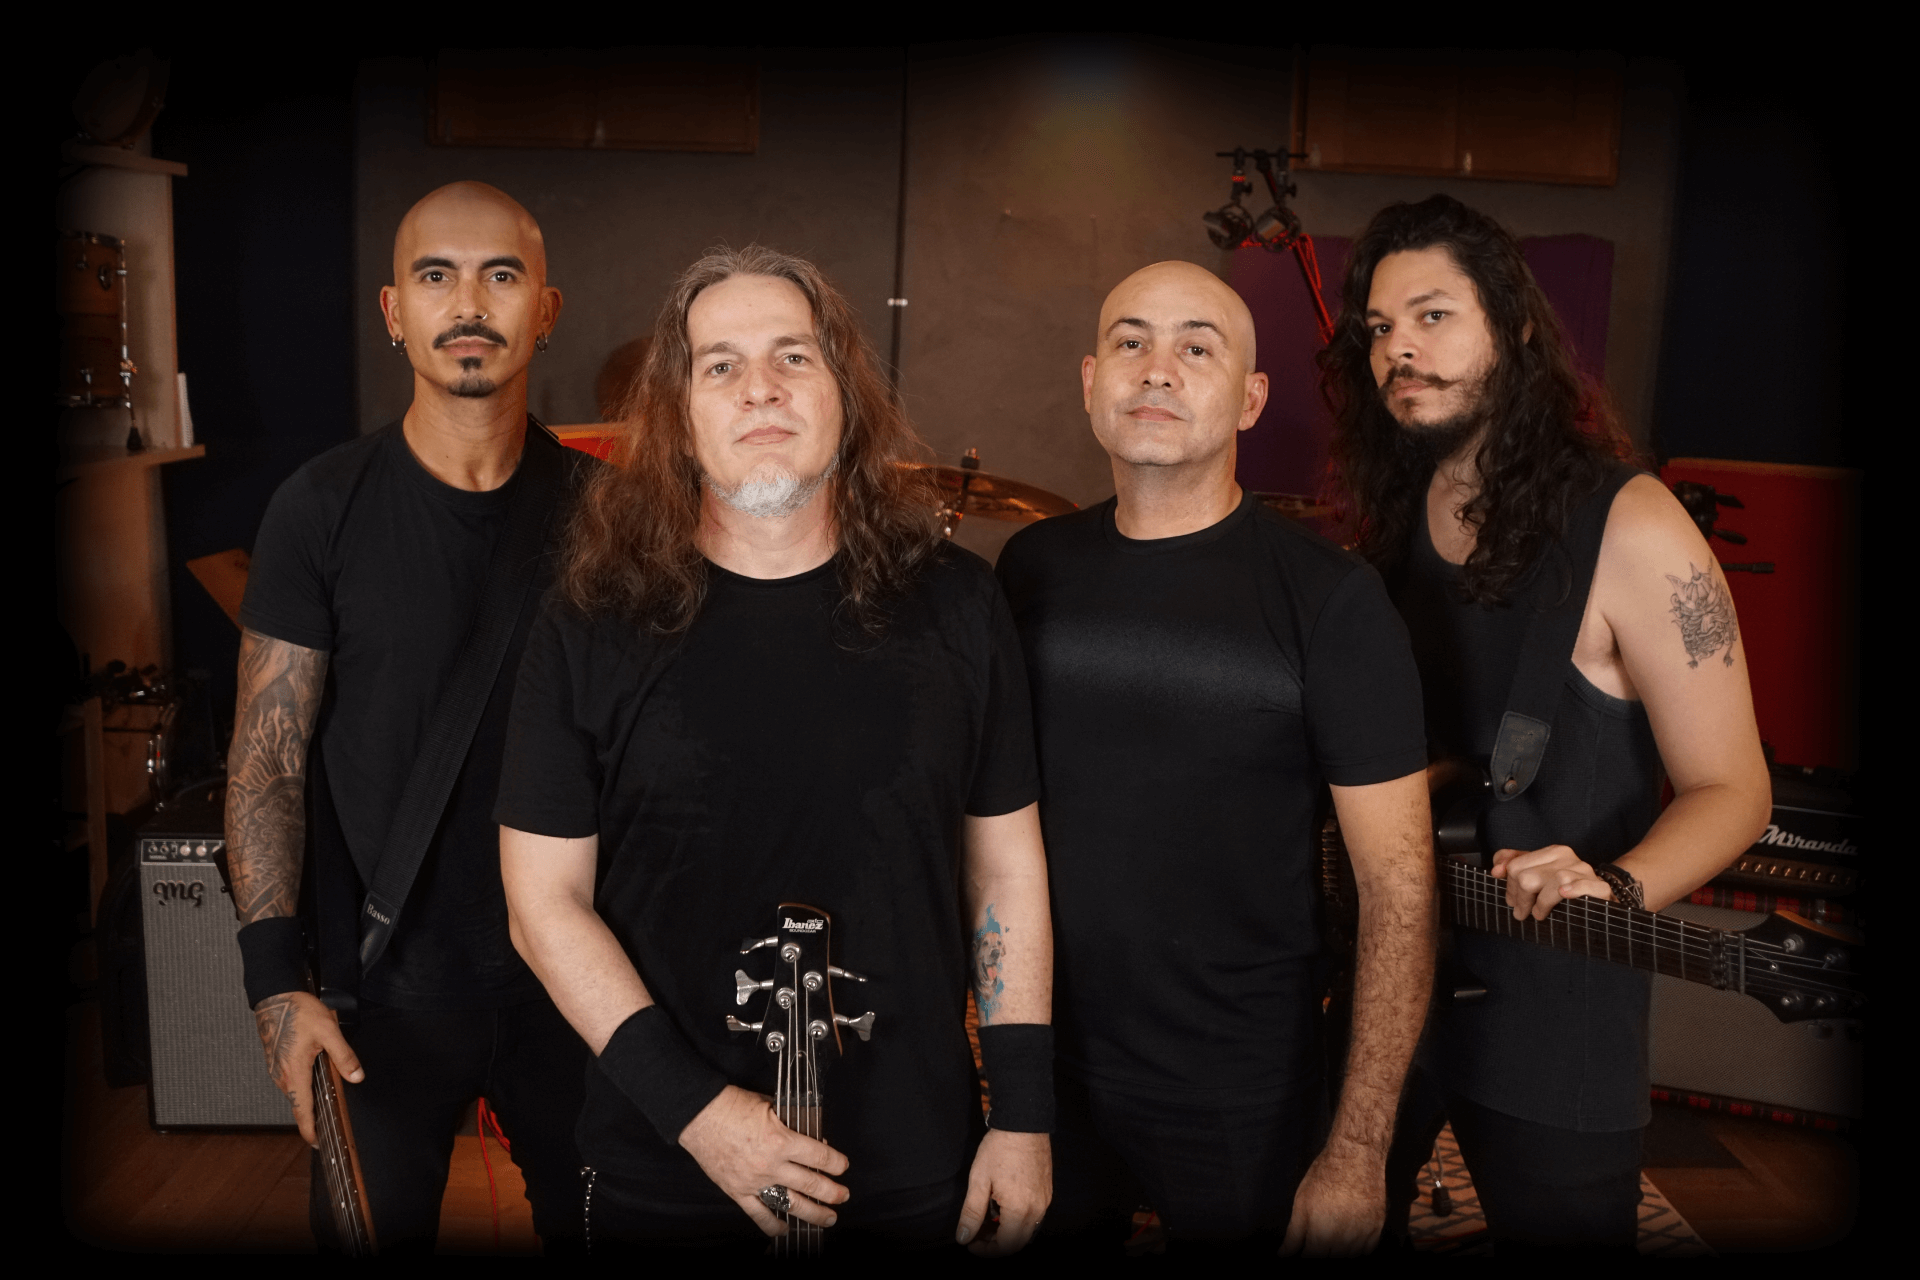
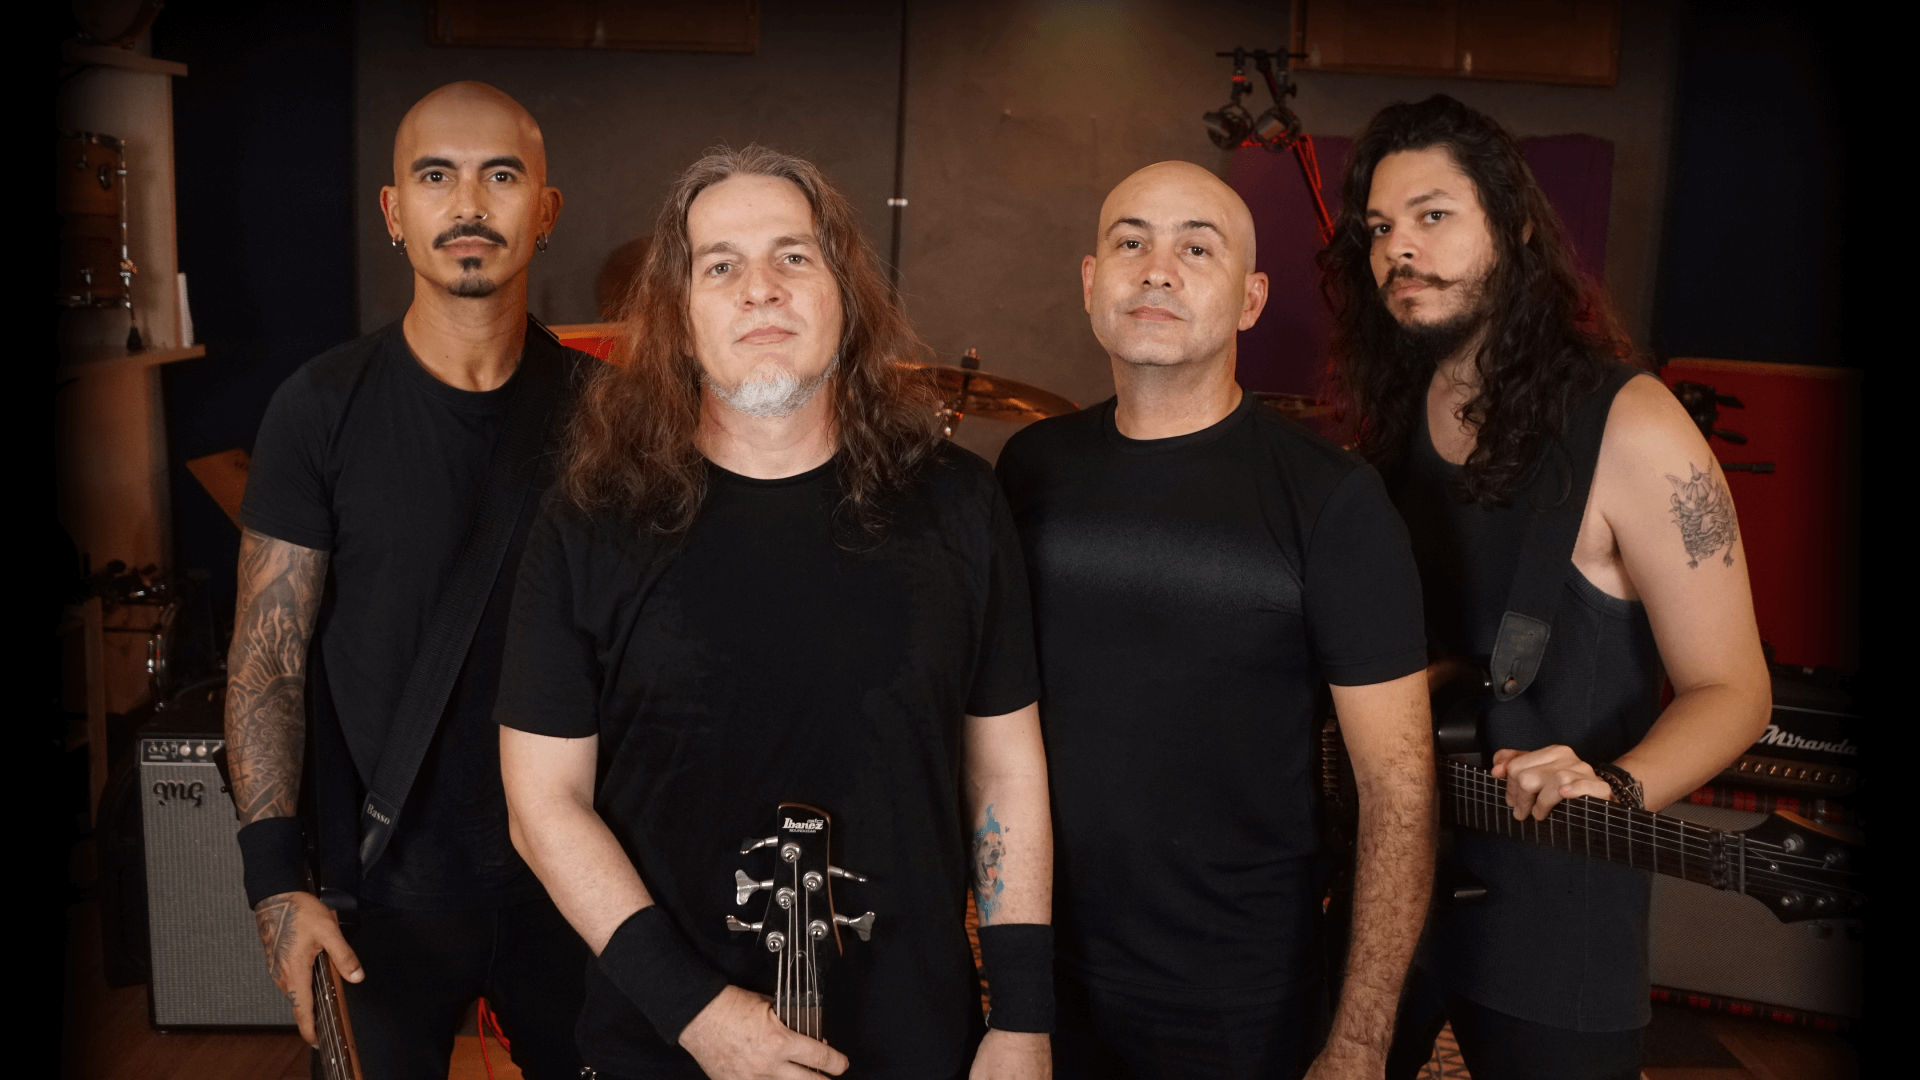
Hero desktop: 16:9 preenche borda sem corte (lg:object-cover + script hero-16x9)
Made-with: Cursor

diff --git a/scripts/hero-16x9.js b/scripts/hero-16x9.js
@@ -1,0 +1,46 @@
+/**
+ * Converte a imagem do hero (public/hero.png) para proporção 16:9 (crop central).
+ * No desktop a imagem preenche toda a borda sem cortes. Uso: node scripts/hero-16x9.js
+ */
+
+const fs = require("fs");
+const path = require("path");
+
+const HERO_PATH = path.join(process.cwd(), "public", "hero.png");
+const TARGET_WIDTH = 1920;
+const TARGET_HEIGHT = 1080; // 16:9
+const QUALITY = 90;
+
+async function convertTo16x9() {
+  let sharp;
+  try {
+    sharp = require("sharp");
+  } catch {
+    console.log("Instalando sharp... Execute: npm install sharp --save-dev");
+    process.exit(1);
+  }
+
+  if (!fs.existsSync(HERO_PATH)) {
+    console.log("Ficheiro public/hero.png não encontrado.");
+    process.exit(1);
+  }
+
+  try {
+    const image = sharp(HERO_PATH);
+    let pipeline = image.resize(TARGET_WIDTH, TARGET_HEIGHT, {
+      fit: "cover",
+      position: "center",
+    });
+    pipeline = pipeline.png();
+    const tempPath = HERO_PATH + ".tmp";
+    await pipeline.toFile(tempPath);
+    fs.renameSync(tempPath, HERO_PATH);
+    const stats = fs.statSync(HERO_PATH);
+    console.log(`Hero convertido para 16:9 (${TARGET_WIDTH}×${TARGET_HEIGHT}, ${(stats.size / 1024).toFixed(1)} KB).`);
+  } catch (err) {
+    console.error("Erro:", err.message);
+    process.exit(1);
+  }
+}
+
+convertTo16x9();

diff --git a/src/components/HeroSection.tsx b/src/components/HeroSection.tsx
@@ -94,7 +94,7 @@ export function HeroSection() {
                 src={heroImageSrc}
                 alt={`${BAND_NAME} — ${TAGLINE}`}
                 fill
-                className="object-cover object-center opacity-95 lg:object-contain"
+                className="object-cover object-center opacity-95 lg:object-cover"
                 style={{ objectPosition: "center center" }}
                 sizes="(max-width: 767px) 100vw, (min-width: 768px) 960px"
                 priority
